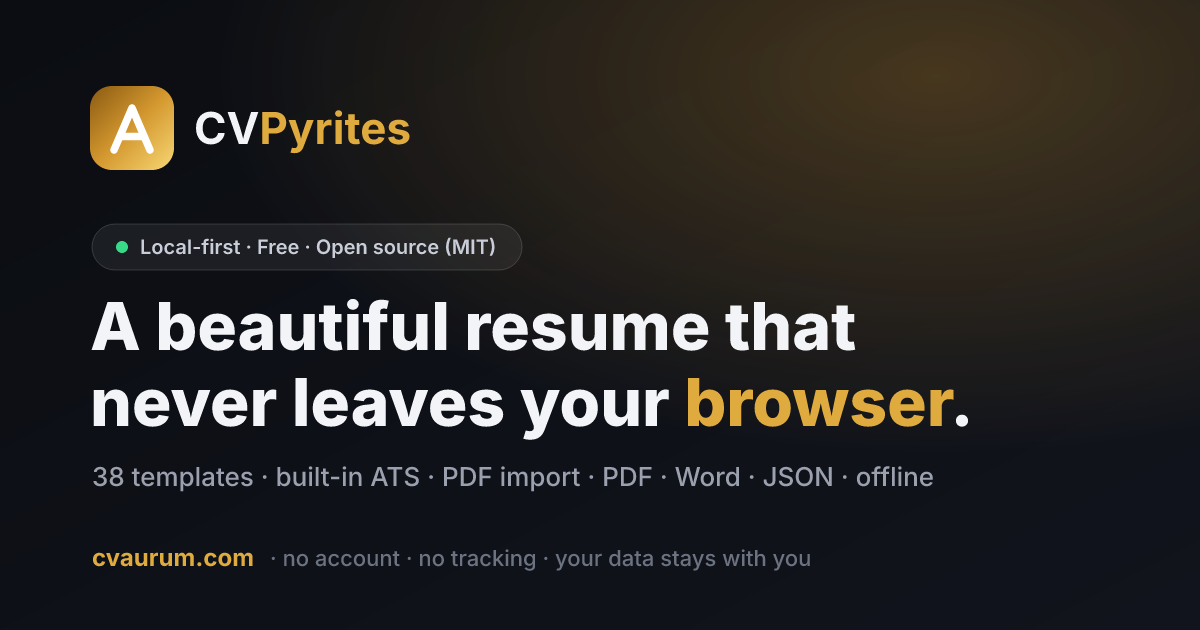
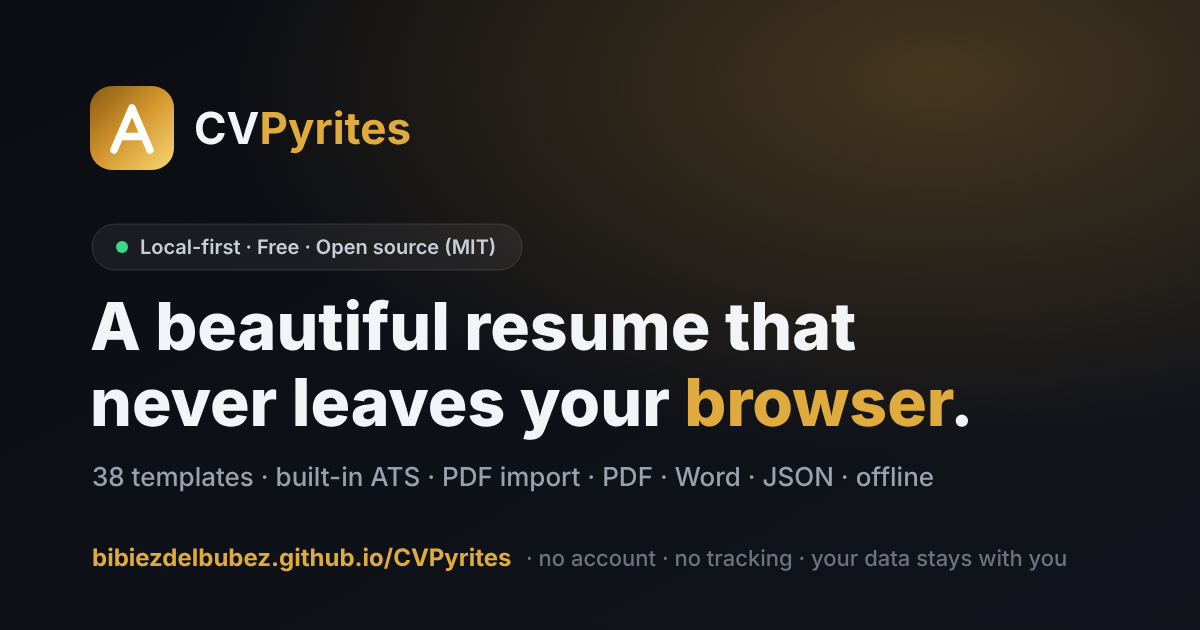
Anteprima dei link (WhatsApp ecc.) dal proprio sito, non da cvaurum.com
og:image, og:url, canonical, dati strutturati, robots e sitemap puntavano al sito dell'autore originale (cvaurum.com), quindi le anteprime mostravano la sua immagine CVAurum. Ora puntano a https://bibiezdelbubez.github.io/CVPyrites/. Immagine og: indirizzo aggiornato.

Claude-Session: https://claude.ai/code/session_012Pmf8urwpBnD9T4zWLU4PH

Changed region(s): [[0.0617, 0.8746, 0.8942, 0.9048]]

diff --git a/index.html b/index.html
@@ -21,8 +21,8 @@
     <!-- Catch the install prompt before the app bundle loads (see the file). -->
     <script src="/pwa-install.js"></script>
 
-    <!-- Primary SEO. Canonical host is https://cvaurum.com (custom domain on
-         Cloudflare Pages). If the domain changes, update it in index.html,
+    <!-- Primary SEO. Canonical host is https://bibiezdelbubez.github.io/CVPyrites (GitHub
+         Pages). Link previews (WhatsApp, LinkedIn…) read og:image/og:url below. If the domain changes, update it in index.html,
          public/robots.txt and public/sitemap.xml. -->
     <title>Free Open-Source ATS Resume Builder — CVPyrites</title>
     <meta name="description" content="Build an ATS-ready resume free, right in your browser — no sign-up, no server, open-source. 38 premium templates, PDF résumé import, and vector PDF / Word / JSON export. Your data never leaves your device." />
@@ -32,14 +32,14 @@
     <meta name="robots" content="index, follow" />
     <meta name="theme-color" content="#ffffff" media="(prefers-color-scheme: light)" />
     <meta name="theme-color" content="#0b0d12" media="(prefers-color-scheme: dark)" />
-    <link rel="canonical" href="https://cvaurum.com/" />
+    <link rel="canonical" href="https://bibiezdelbubez.github.io/CVPyrites/" />
 
     <!-- Open Graph (link previews) -->
     <meta property="og:type" content="website" />
     <meta property="og:title" content="Free Open-Source ATS Resume Builder — CVPyrites" />
     <meta property="og:description" content="Build an ATS-ready resume free, right in your browser — no sign-up, no server, open-source. 38 premium templates, PDF résumé import, and vector PDF / Word / JSON export. Your data never leaves your device." />
-    <meta property="og:url" content="https://cvaurum.com/" />
-    <meta property="og:image" content="https://cvaurum.com/og.png" />
+    <meta property="og:url" content="https://bibiezdelbubez.github.io/CVPyrites/" />
+    <meta property="og:image" content="https://bibiezdelbubez.github.io/CVPyrites/og.png" />
     <meta property="og:image:type" content="image/png" />
     <meta property="og:image:width" content="1200" />
     <meta property="og:image:height" content="630" />
@@ -47,16 +47,16 @@
     <meta property="og:site_name" content="CVPyrites" />
     <meta property="og:locale" content="en_US" />
 
-    <meta property="og:image:secure_url" content="https://cvaurum.com/og.png" />
-    <link rel="alternate" hreflang="en" href="https://cvaurum.com/" />
-    <link rel="alternate" hreflang="x-default" href="https://cvaurum.com/" />
+    <meta property="og:image:secure_url" content="https://bibiezdelbubez.github.io/CVPyrites/og.png" />
+    <link rel="alternate" hreflang="en" href="https://bibiezdelbubez.github.io/CVPyrites/" />
+    <link rel="alternate" hreflang="x-default" href="https://bibiezdelbubez.github.io/CVPyrites/" />
     <meta name="format-detection" content="telephone=no" />
 
     <!-- Twitter / X -->
     <meta name="twitter:card" content="summary_large_image" />
     <meta name="twitter:title" content="Free Open-Source ATS Resume Builder — CVPyrites" />
     <meta name="twitter:description" content="Build an ATS-ready resume free, right in your browser — no sign-up, no server, open-source. 38 premium templates, PDF résumé import, and vector PDF / Word / JSON export. Your data never leaves your device." />
-    <meta name="twitter:image" content="https://cvaurum.com/og.png" />
+    <meta name="twitter:image" content="https://bibiezdelbubez.github.io/CVPyrites/og.png" />
     <meta name="twitter:image:alt" content="CVPyrites — a beautiful resume that never leaves your browser." />
 
     <!-- Structured data: rich result for the app -->
@@ -66,11 +66,11 @@
       "@type": "SoftwareApplication",
       "name": "CVPyrites",
       "description": "CVPyrites is a 100% client-side, open-source, privacy-first resume builder. Build ATS-ready resumes entirely in your browser with no server, no account, and no tracking. Includes 38 premium data-driven templates, local PDF résumé import (with on-device OCR), a deterministic ATS score, job-description keyword matching, and exports to crisp vector PDF, WYSIWYG Word, and JSON Resume.",
-      "url": "https://cvaurum.com/",
+      "url": "https://bibiezdelbubez.github.io/CVPyrites/",
       "applicationCategory": "BusinessApplication",
       "operatingSystem": "Web Browser",
       "browserRequirements": "Requires JavaScript. Works fully offline.",
-      "image": "https://cvaurum.com/og.png",
+      "image": "https://bibiezdelbubez.github.io/CVPyrites/og.png",
       "license": "https://opensource.org/licenses/MIT",
       "isAccessibleForFree": true,
       "offers": { "@type": "Offer", "price": "0", "priceCurrency": "USD" },
@@ -101,14 +101,14 @@
       "@type": "WebSite",
       "name": "CVPyrites",
       "alternateName": "CVPyrites Resume Builder",
-      "url": "https://cvaurum.com/",
+      "url": "https://bibiezdelbubez.github.io/CVPyrites/",
       "description": "Free, open-source, 100% client-side resume builder. Build ATS-ready resumes in your browser — no account, no server, no tracking.",
       "inLanguage": "en",
       "publisher": {
         "@type": "Organization",
         "name": "CVPyrites",
-        "url": "https://cvaurum.com/",
-        "logo": "https://cvaurum.com/icon-512.png",
+        "url": "https://bibiezdelbubez.github.io/CVPyrites/",
+        "logo": "https://bibiezdelbubez.github.io/CVPyrites/icon-512.png",
         "sameAs": ["https://github.com/BibiezDelBubez/CVPyrites"]
       }
     }
